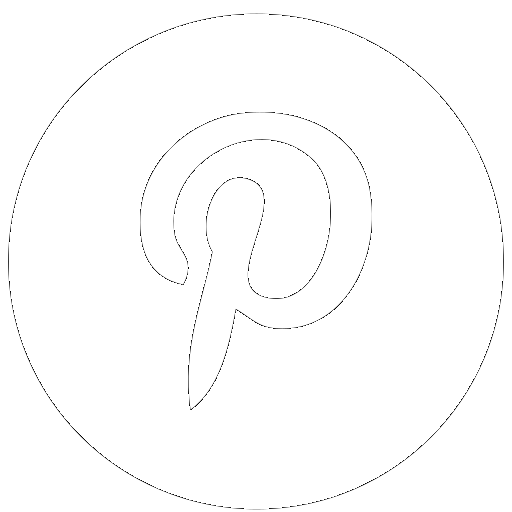
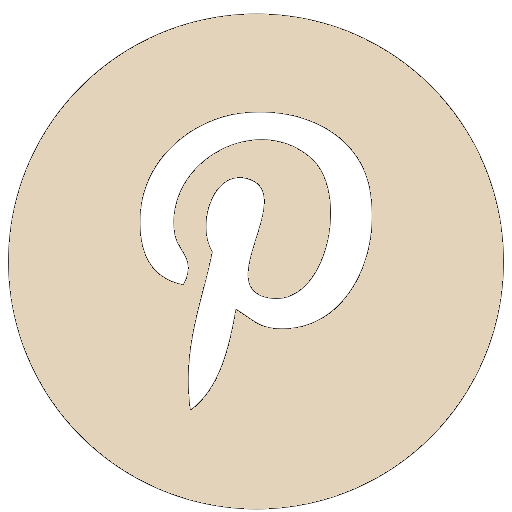
firstMeet-BasicChange

diff --git a/index.html b/index.html
@@ -41,8 +41,8 @@
 			</header>
 			
 			<div class="text">
-			<p style=" font-family: 'Libre Baskerville'; font-size:200%;width:100%;height:100%;">Tom Leslie</p>
-			<p style=" font-family: 'Libre Baskerville';font-size:100%;width:100%;height:100%;">Wedding & event clarinet</p>
+			<p style=" color:#E3D3BB; font-family: 'Libre Baskerville'; font-size:200%;width:100%;height:100%;">TOM LESLIE</p>
+			<p style=" color:#E3D3BB; font-family: 'Libre Baskerville';font-size:100%;width:100%;height:100%;">WEDDING AND EVENT SAXOPHONIST & CLARINETIST</p>
 			</div>
 			<a href="#section5" style="  align-items: center;"><button class="NowForm" >Now Enquire</button></a>
 		</section>
@@ -69,11 +69,16 @@
 			  "Elevate your celebration with the elegance of live clarinet music."
 			  </div>
 			</div>
-
-			Hi, I’m a clarinetist based in Vienna, Austria — a passionate musician in my late 20s, devoted to bringing beauty and emotion to life’s most cherished moments. I live with my wonderful wife and our beloved child, who mean the world to me. They are my greatest joy and deepest inspiration. Music has always been a central part of my life. I’ve dedicated myself to the clarinet not just as an instrument, but as a way to connect with people on a deeper level. I especially love performing at weddings and meaningful events, where I can contribute to the atmosphere of love, celebration, and unforgettable memories.
-	Whether it's the tender walk down the aisle, an intimate ceremony, or a joyful gathering, I would be honored to share in your special day through the timeless voice of the clarinet. Let’s make your moment magical — together.
-			
-			
+			<p style="margin-bottom:20px;">
+			Tom is a passionate and highly skilled clarinetist and saxophonist, specializing in crafting unforgettable musical experiences for luxury weddings and exclusive events. With a deep love for both music and people, he brings an extra layer of elegance, warmth, and personal touch to life’s most meaningful moments—ensuring that every celebration is as unique and memorable as the people it’s for.
+			</p><p style="margin-bottom:20px;">
+			As a husband, Tom understands the profound significance of love, connection, and shared experiences. He feels truly honored to be part of others’ most beautiful days, and he is deeply committed to making those moments even more magical through his music. Whether it’s the timeless elegance of a wedding ceremony or the lively celebration of a once-in-a-lifetime occasion, Tom’s music—whether on clarinet or saxophone—will enhance the emotions and memories of your day in ways that last a lifetime.
+			</p><p style="margin-bottom:20px;">
+			Born and raised in Hungary, Tom began his classical music education at the prestigious Bartók Béla Conservatory in Budapest, where he first fell in love with the beauty and depth of classical music. After completing his formal studies, he continued to refine his craft as an autodidact, exploring a diverse range of musical styles and performance techniques. While classical music remains a foundation of his artistry, Tom thrives on blending genres—from romantic melodies on clarinet to smooth, soulful tunes on saxophone—and working closely with clients to create musical experiences that reflect their vision and the unique atmosphere of their event.
+			</p><p style="margin-bottom:20px;">
+			Now based in Austria, Tom is available for events worldwide, offering bespoke musical experiences tailored to your style, taste, and story. Whether you’re planning an intimate ceremony, an elegant cocktail hour, or a vibrant celebration, Tom’s captivating sound, professional presence, and attention to detail will elevate your event and create an unforgettable atmosphere for you and your guests.
+			</p>
+			Explore Tom’s music and discover how his artistry—on both clarinet and saxophone—can add a luxurious, personalized touch to your next event. With Tom, every note tells a story, and every performance is designed to create lasting memories.
 			</div>
 			<div class="Services" id="section2">
 			<h2>Services</h2>
@@ -163,7 +168,15 @@
 			<div class="Repertoire" id="section4">
 				<div class="videos">
 					<h2  style="color: #3b5726;">Repertoire</h2>
-					<video src="video/I can’t help falling in love with you.mp4" controls loop></video>
+					
+					<video src="C:\Users\Tünde\Downloads\downloadgram.org_AQM71vIT_cOdi7ca_32aLq36Wg9LCbskVJwGRYvZajR86sk0BIpIssGpyxeIAjpD03y5VlsS4IrxmupG4fsWQIvqU65_F8TlL5G5n8Y.mp4" controls loop></video>
+					
+					<iframe src="https://www.instagram.com/p/https://www.instagram.com/p/BZbL8yhBoBI/?utm_source=ig_embed&utm_campaign=loadingembed" width="400" height="480" frameborder="0" scrolling="no" allowtransparency="true"></iframe>
+
+					
+					<blockquote class="instagram-media" data-instgrm-permalink="https://www.instagram.com/p/BZbL8yhBoBI/?utm_source=ig_embed&amp;utm_campaign=loading" data-instgrm-version="14" style=" background:#FFF; border:0; border-radius:3px; box-shadow:0 0 1px 0 rgba(0,0,0,0.5),0 1px 10px 0 rgba(0,0,0,0.15); margin: 1px; max-width:540px; min-width:326px; padding:0; width:99.375%; width:-webkit-calc(100% - 2px); width:calc(100% - 2px);"><div style="padding:16px;"> <a href="https://www.instagram.com/p/BZbL8yhBoBI/?utm_source=ig_embed&amp;utm_campaign=loading" style=" background:#FFFFFF; line-height:0; padding:0 0; text-align:center; text-decoration:none; width:100%;" target="_blank"> <div style=" display: flex; flex-direction: row; align-items: center;"> <div style="background-color: #F4F4F4; border-radius: 50%; flex-grow: 0; height: 40px; margin-right: 14px; width: 40px;"></div> <div style="display: flex; flex-direction: column; flex-grow: 1; justify-content: center;"> <div style=" background-color: #F4F4F4; border-radius: 4px; flex-grow: 0; height: 14px; margin-bottom: 6px; width: 100px;"></div> <div style=" background-color: #F4F4F4; border-radius: 4px; flex-grow: 0; height: 14px; width: 60px;"></div></div></div><div style="padding: 19% 0;"></div> <div style="display:block; height:50px; margin:0 auto 12px; width:50px;"><svg width="50px" height="50px" viewBox="0 0 60 60" version="1.1" xmlns="https://www.w3.org/2000/svg" xmlns:xlink="https://www.w3.org/1999/xlink"><g stroke="none" stroke-width="1" fill="none" fill-rule="evenodd"><g transform="translate(-511.000000, -20.000000)" fill="#000000"><g><path d="M556.869,30.41 C554.814,30.41 553.148,32.076 553.148,34.131 C553.148,36.186 554.814,37.852 556.869,37.852 C558.924,37.852 560.59,36.186 560.59,34.131 C560.59,32.076 558.924,30.41 556.869,30.41 M541,60.657 C535.114,60.657 530.342,55.887 530.342,50 C530.342,44.114 535.114,39.342 541,39.342 C546.887,39.342 551.658,44.114 551.658,50 C551.658,55.887 546.887,60.657 541,60.657 M541,33.886 C532.1,33.886 524.886,41.1 524.886,50 C524.886,58.899 532.1,66.113 541,66.113 C549.9,66.113 557.115,58.899 557.115,50 C557.115,41.1 549.9,33.886 541,33.886 M565.378,62.101 C565.244,65.022 564.756,66.606 564.346,67.663 C563.803,69.06 563.154,70.057 562.106,71.106 C561.058,72.155 560.06,72.803 558.662,73.347 C557.607,73.757 556.021,74.244 553.102,74.378 C549.944,74.521 548.997,74.552 541,74.552 C533.003,74.552 532.056,74.521 528.898,74.378 C525.979,74.244 524.393,73.757 523.338,73.347 C521.94,72.803 520.942,72.155 519.894,71.106 C518.846,70.057 518.197,69.06 517.654,67.663 C517.244,66.606 516.755,65.022 516.623,62.101 C516.479,58.943 516.448,57.996 516.448,50 C516.448,42.003 516.479,41.056 516.623,37.899 C516.755,34.978 517.244,33.391 517.654,32.338 C518.197,30.938 518.846,29.942 519.894,28.894 C520.942,27.846 521.94,27.196 523.338,26.654 C524.393,26.244 525.979,25.756 528.898,25.623 C532.057,25.479 533.004,25.448 541,25.448 C548.997,25.448 549.943,25.479 553.102,25.623 C556.021,25.756 557.607,26.244 558.662,26.654 C560.06,27.196 561.058,27.846 562.106,28.894 C563.154,29.942 563.803,30.938 564.346,32.338 C564.756,33.391 565.244,34.978 565.378,37.899 C565.522,41.056 565.552,42.003 565.552,50 C565.552,57.996 565.522,58.943 565.378,62.101 M570.82,37.631 C570.674,34.438 570.167,32.258 569.425,30.349 C568.659,28.377 567.633,26.702 565.965,25.035 C564.297,23.368 562.623,22.342 560.652,21.575 C558.743,20.834 556.562,20.326 553.369,20.18 C550.169,20.033 549.148,20 541,20 C532.853,20 531.831,20.033 528.631,20.18 C525.438,20.326 523.257,20.834 521.349,21.575 C519.376,22.342 517.703,23.368 516.035,25.035 C514.368,26.702 513.342,28.377 512.574,30.349 C511.834,32.258 511.326,34.438 511.181,37.631 C511.035,40.831 511,41.851 511,50 C511,58.147 511.035,59.17 511.181,62.369 C511.326,65.562 511.834,67.743 512.574,69.651 C513.342,71.625 514.368,73.296 516.035,74.965 C517.703,76.634 519.376,77.658 521.349,78.425 C523.257,79.167 525.438,79.673 528.631,79.82 C531.831,79.965 532.853,80.001 541,80.001 C549.148,80.001 550.169,79.965 553.369,79.82 C556.562,79.673 558.743,79.167 560.652,78.425 C562.623,77.658 564.297,76.634 565.965,74.965 C567.633,73.296 568.659,71.625 569.425,69.651 C570.167,67.743 570.674,65.562 570.82,62.369 C570.966,59.17 571,58.147 571,50 C571,41.851 570.966,40.831 570.82,37.631"></path></g></g></g></svg></div><div style="padding-top: 8px;"> <div style=" color:#3897f0; font-family:Arial,sans-serif; font-size:14px; font-style:normal; font-weight:550; line-height:18px;">A bejegyzés megtekintése az Instagramon</div></div><div style="padding: 12.5% 0;"></div> <div style="display: flex; flex-direction: row; margin-bottom: 14px; align-items: center;"><div> <div style="background-color: #F4F4F4; border-radius: 50%; height: 12.5px; width: 12.5px; transform: translateX(0px) translateY(7px);"></div> <div style="background-color: #F4F4F4; height: 12.5px; transform: rotate(-45deg) translateX(3px) translateY(1px); width: 12.5px; flex-grow: 0; margin-right: 14px; margin-left: 2px;"></div> <div style="background-color: #F4F4F4; border-radius: 50%; height: 12.5px; width: 12.5px; transform: translateX(9px) translateY(-18px);"></div></div><div style="margin-left: 8px;"> <div style=" background-color: #F4F4F4; border-radius: 50%; flex-grow: 0; height: 20px; width: 20px;"></div> <div style=" width: 0; height: 0; border-top: 2px solid transparent; border-left: 6px solid #f4f4f4; border-bottom: 2px solid transparent; transform: translateX(16px) translateY(-4px) rotate(30deg)"></div></div><div style="margin-left: auto;"> <div style=" width: 0px; border-top: 8px solid #F4F4F4; border-right: 8px solid transparent; transform: translateY(16px);"></div> <div style=" background-color: #F4F4F4; flex-grow: 0; height: 12px; width: 16px; transform: translateY(-4px);"></div> <div style=" width: 0; height: 0; border-top: 8px solid #F4F4F4; border-left: 8px solid transparent; transform: translateY(-4px) translateX(8px);"></div></div></div> <div style="display: flex; flex-direction: column; flex-grow: 1; justify-content: center; margin-bottom: 24px;"> <div style=" background-color: #F4F4F4; border-radius: 4px; flex-grow: 0; height: 14px; margin-bottom: 6px; width: 224px;"></div> <div style=" background-color: #F4F4F4; border-radius: 4px; flex-grow: 0; height: 14px; width: 144px;"></div></div></a><p style=" color:#c9c8cd; font-family:Arial,sans-serif; font-size:14px; line-height:17px; margin-bottom:0; margin-top:8px; overflow:hidden; padding:8px 0 7px; text-align:center; text-overflow:ellipsis; white-space:nowrap;"><a href="https://www.instagram.com/p/BZbL8yhBoBI/?utm_source=ig_embed&amp;utm_campaign=loading" style=" color:#c9c8cd; font-family:Arial,sans-serif; font-size:14px; font-style:normal; font-weight:normal; line-height:17px; text-decoration:none;" target="_blank">Pap Tünde (@paptutu) által megosztott bejegyzés</a></p></div></blockquote>
+<script async src="//www.instagram.com/embed.js"></script>
+					
 					<video src="video/Canon in D.mp4" controls loop></video>
 					<video src="video/Until I found you.mp4" controls loop></video>
 				</div>
@@ -199,6 +212,7 @@
 					<option value="birthday">Birthday</option>
 					<option value="corporate">Corporate Event</option>
 					<option value="family">Family Gathering</option>
+					<option value="family">Proposal</option>
 					<option value="other">Other</option>
 				  </select><br>
 
